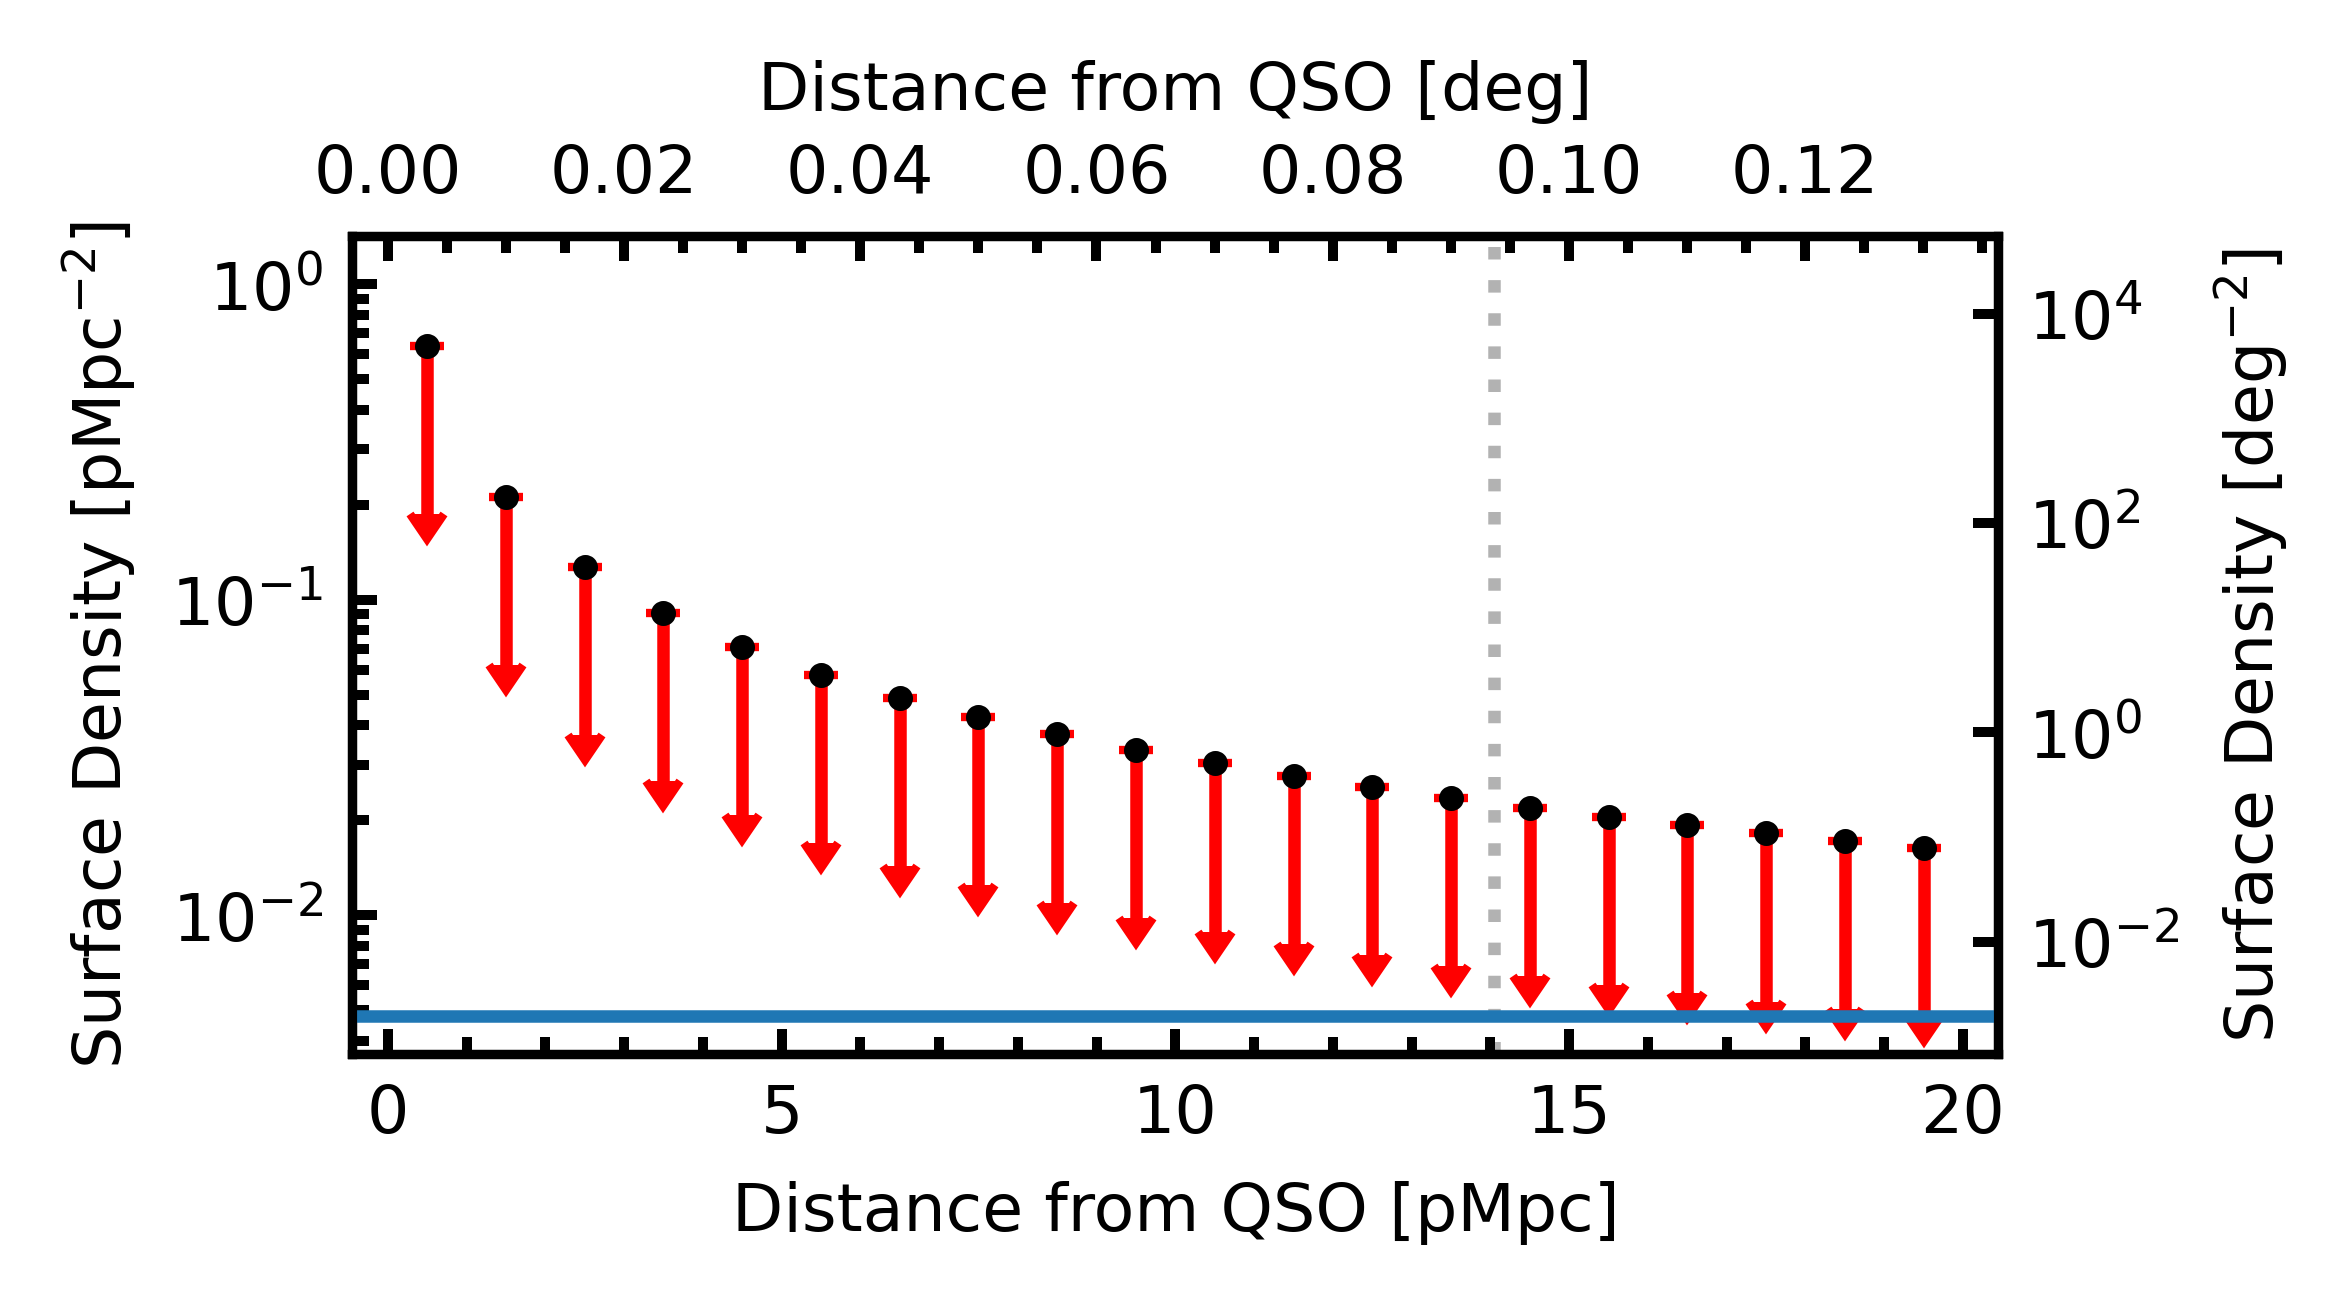
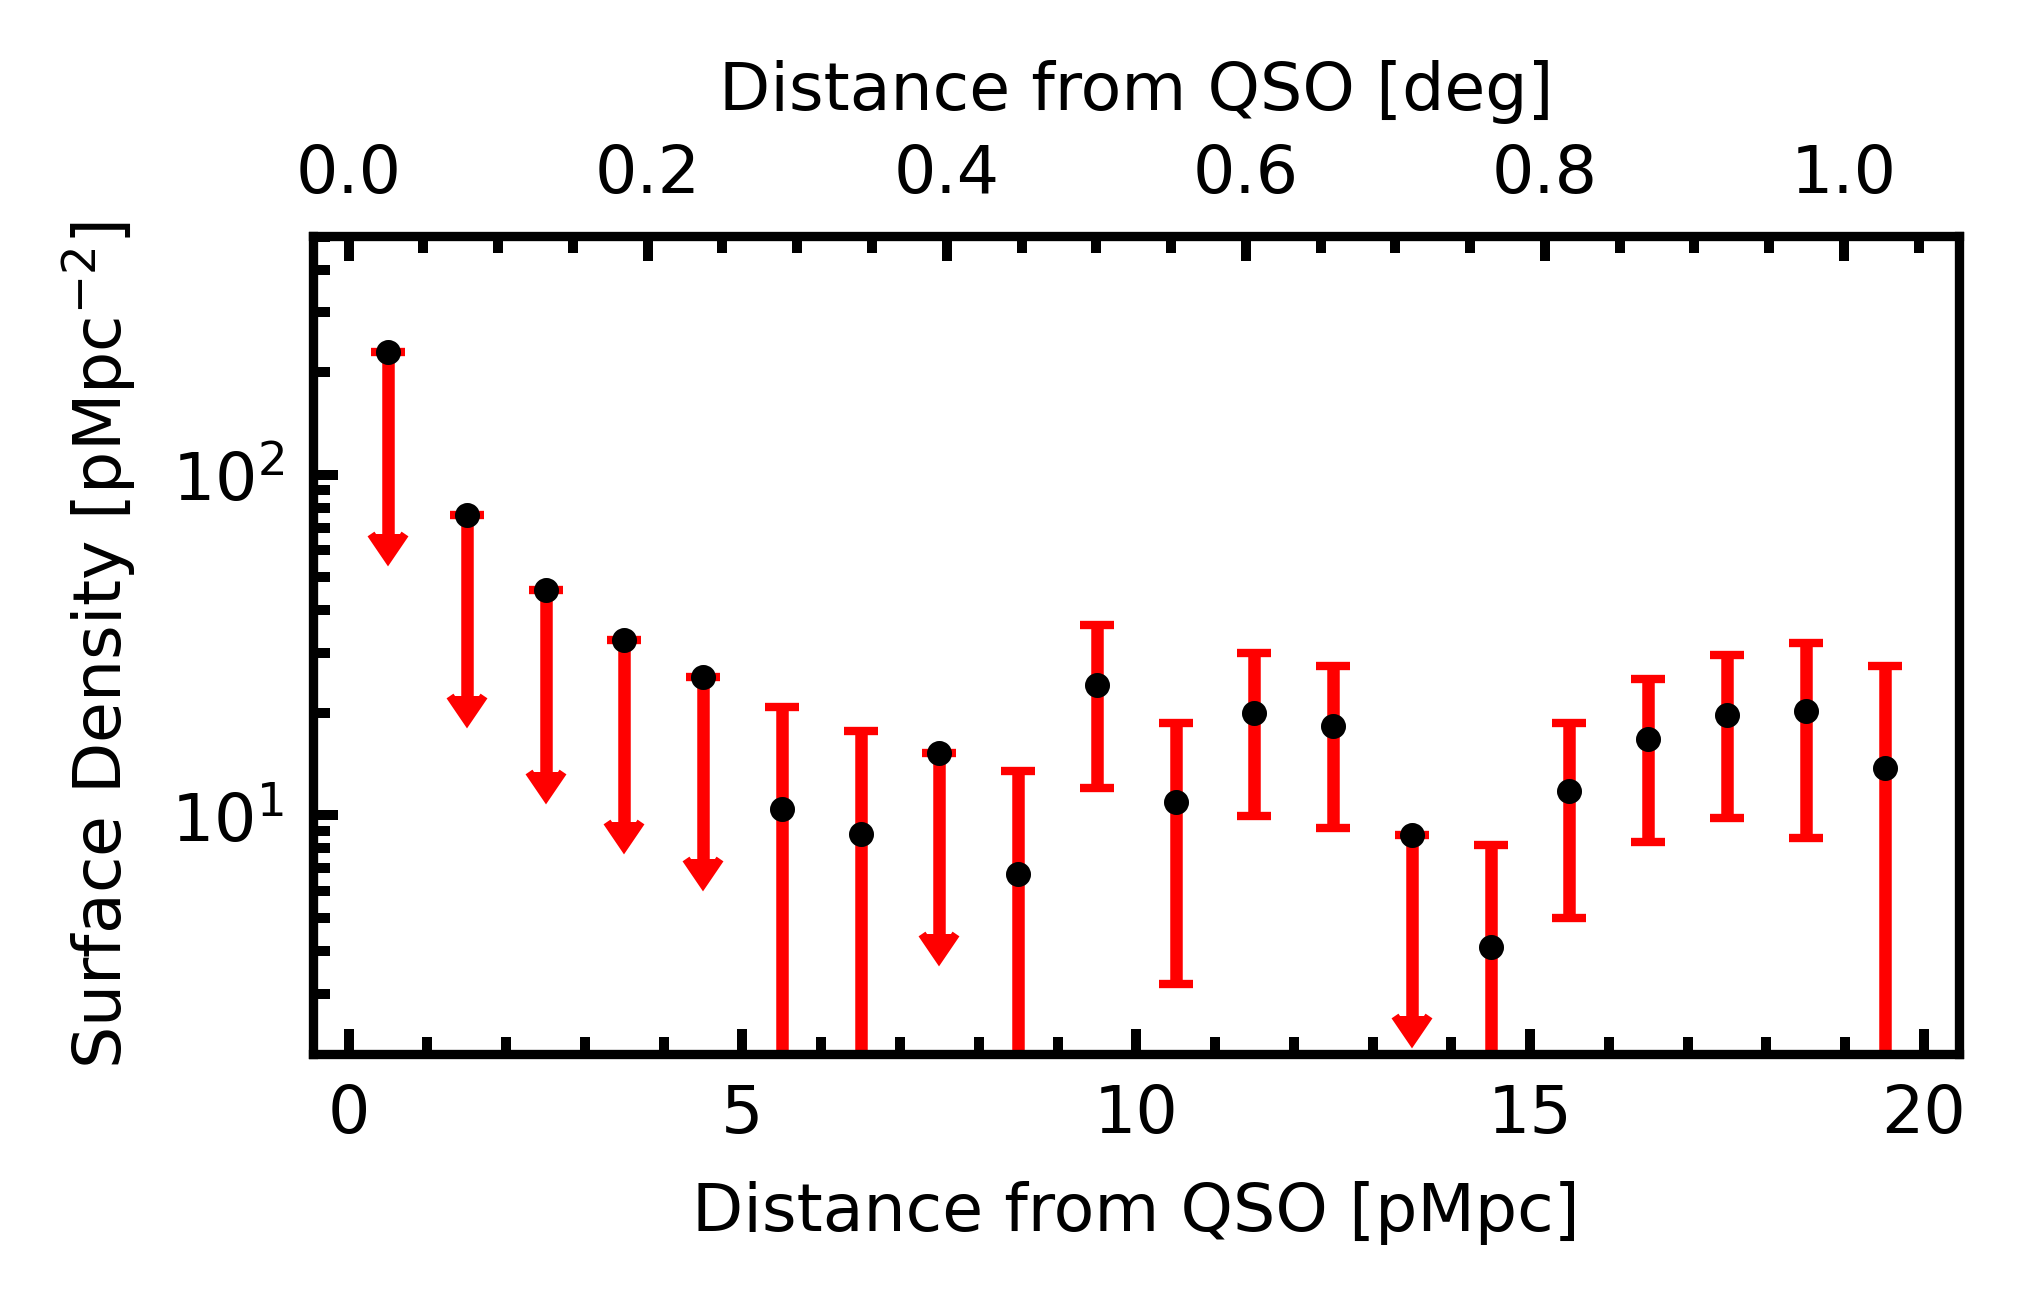
Updatting the radial plots

diff --git a/plot_radial_distribution.py b/plot_radial_distribution.py
@@ -1,0 +1,151 @@
+"""
+Plotting the radial distribution of the counts.
+"""
+
+from rich.progress import track
+import numpy as np
+from astropy.io import fits
+from astropy.wcs import WCS
+import astropy.units as u
+from astropy.cosmology import FlatLambdaCDM
+from astropy.coordinates import SkyCoord
+from astropy.coordinates.angles import Angle
+import pylab as plt
+import plotting
+
+RA_QSO = (23 + (48/60) + (33.34/3600)) * (360/24)
+DEC_QSO = (30 + (54/60) + (10.0/3600)) * -1
+REDSHIFT_QSO = 6.9
+COSMO = FlatLambdaCDM(H0=70, Om0=0.3)
+ARCSEC_PER_KPC = COSMO.arcsec_per_kpc_proper(REDSHIFT_QSO)
+DEG_PER_MPC = ARCSEC_PER_KPC.to(u.deg / u.Mpc)
+
+class Mask:
+    """Mask class"""
+    def __init__(self, file_name: str) -> None:
+        self.hdu = fits.open(file_name)
+        self.data = self.hdu[0].data
+        self.wcs = WCS(self.hdu[0].header)
+        self.deg_per_pix = self.hdu[0].header['PC2_2']*u.deg
+        self.pix_area_deg = (self.deg_per_pix) ** 2
+
+    def calculate_area(self, center: tuple, inner_radius: float, outer_radius: float) -> float:
+        """
+        Calculates the area by counting the number of non-masked pixels and multiplying
+        by the pixel area.
+        """
+        cutout = create_annulus_cutout(self.data, center, inner_radius, outer_radius)
+        number_pixels = len(np.where(cutout==1)[0])
+        return number_pixels * self.pix_area_deg
+
+    @property
+    def center(self):
+        """Calculates the center RA/DEC of the center of the image."""
+        rows, columns = self.data.shape
+        center_row = rows/2
+        center_column = columns/2 
+        return self.wcs.pixel_to_world_values(center_column, center_row)
+
+def create_annulus_cutout(image: np.ndarray, center: tuple, inner_radius: float, outer_radius: float):
+    """
+    Create a new image with an annulus cutout from the input image.
+    
+    Parameters:
+        image (numpy.ndarray): 2D fits image array.
+        center (tuple): Center coordinates (y, x) of the annulus.
+        inner_radius (float): Inner radius of the annulus.
+        outer_radius (float): Outer radius of the annulus.
+        
+    Returns:
+        numpy.ndarray: New image with pixels outside the annulus set to NaN.
+    """
+    y_indicies, x_indicies = np.indices(image.shape)
+
+    distance_from_center = np.sqrt((x_indicies - center[1])**2 + (y_indicies - center[0])**2)
+
+    mask = np.logical_and(distance_from_center >= inner_radius, distance_from_center <= outer_radius)
+
+    cutout_image = image.copy()
+    cutout_image[~mask] = np.nan
+    return cutout_image
+
+def calculate_distances_of_candidates(center: tuple, candidate_list: str) -> Angle:
+    """
+    Works out the distance to the candidates from the given center.
+    Center must be in decimal ra and dec and candidate list is the file name
+    with the positions of the candidates. 
+    """
+    center_position = SkyCoord(ra = center[0]*u.deg, dec = center[1]*u.deg)
+    ras, decs = np.loadtxt(candidate_list, unpack=True)
+    candidates = SkyCoord(ra = ras*u.deg, dec = decs*u.deg)
+    separations = center_position.separation(candidates)
+    return separations
+
+def plot_radial_profile(counts: np.ndarray, areas_vals: list, distances: np.ndarray, separations: np.ndarray, outfile: str):
+    """plots the radial profile"""
+    areas = np.array([area.value for area in areas_vals])
+    null_count_values = np.where(counts==0)[0]
+    non_null_count_values = np.where(counts!=0)[0]
+    counts[null_count_values] = 0#2 # poisson distribution means a zero count is less than 2 counts.
+    y = counts/areas
+    y_err = np.sqrt(counts)/areas
+
+
+    fig = plt.figure(figsize = (3.54, 3.54/2), dpi = 600)
+    ax = fig.add_subplot(111)
+    ax.errorbar(distances[non_null_count_values], y[non_null_count_values], yerr = y_err[non_null_count_values], fmt='ok', ecolor='r', ms = 2, capsize=2)
+    ax.errorbar(distances[null_count_values], y[null_count_values], yerr = y_err[null_count_values], fmt='ok', ecolor='r', ms = 2, capsize=2, uplims=True)
+    ax.set_xlabel('Distance from QSO [pMpc]')
+    ax.set_ylabel(r'Surface Density [deg^{-2}$]')
+    ax.minorticks_on()
+    ax.tick_params(which='both', width=1.2,direction='in')
+    ax.tick_params(which='major', length=3, direction='in')
+    #ax.set_yscale('log')
+
+    ax1 = ax.twiny()
+    ax1.errorbar(separations, y, yerr=y_err, fmt='ok', alpha=0)
+    ax1.set_xlabel('Distance from QSO [deg]')
+    ax1.minorticks_on()
+    ax1.tick_params(which='both', width=1.2,direction='in')
+    ax1.tick_params(which='major', length=3, direction='in')
+    plotting.end_plot(outfile)
+    
+
+if __name__ == '__main__':
+    CDFS_MASK_FILE = 'CDFS_MASK.fits'
+    DECAM_MASK_FILE = 'DECAM_MASK.fits'
+
+    CDFS_CANDIDATES = 'candidates_cdfs_e.txt'
+    DECAM_CANDIDATES = 'candidates_e.txt'
+
+    cdfs = Mask(CDFS_MASK_FILE)
+    cdfs_center = (cdfs.data.shape[1]/2, cdfs.data.shape[0]/2)
+    decam = Mask(DECAM_MASK_FILE)
+    decam_center = decam.wcs.world_to_pixel_values(RA_QSO, DEC_QSO)
+
+
+    radii_mpc = np.arange(0,21,1) * u.Mpc
+    radii_deg = radii_mpc * DEG_PER_MPC
+    radii_pix = radii_deg / cdfs.deg_per_pix
+    average_radii_mpc = np.array([(radii_mpc[i].value + radii_mpc[i+1].value)/2 for i in range(len(radii_mpc) -1)]) * u.Mpc
+    average_radii_deg = average_radii_mpc * DEG_PER_MPC
+
+    areas_cdfs = [cdfs.calculate_area(cdfs_center, radii_pix[i], radii_pix[i+1]) for  i in track(range(len(radii_pix) -1), 'area cdfs')]
+    areas_decam = [decam.calculate_area(decam_center, radii_pix[i], radii_pix[i+1]) for  i in track(range(len(radii_pix) -1), 'area decam')]
+
+    distances_cdfs = calculate_distances_of_candidates(cdfs.center, CDFS_CANDIDATES)
+    distances_decam = calculate_distances_of_candidates((RA_QSO, DEC_QSO), DECAM_CANDIDATES)
+
+    counts_cdfs = np.array(
+        [len(np.where((distances_cdfs.value > radii_deg[i].value) & (distances_cdfs.value < radii_deg[i+1].value))[0]) \
+          for i in range(len(radii_deg) -1)])
+
+    counts_decam = np.array(
+        [
+            len(np.where((distances_decam.value > radii_deg[i].value) & (distances_decam.value < radii_deg[i+1].value))[0]) \
+          for i in range(len(radii_deg) -1)
+        ]
+    )
+
+    plot_radial_profile(counts_cdfs, areas_cdfs, average_radii_mpc, average_radii_deg, 'plots/surface_density_cdfs.png')
+    plot_radial_profile(counts_decam, areas_decam, average_radii_mpc, average_radii_deg, 'plots/surface_density.png')

diff --git a/plot_cdfs_onsky_distribution.py b/plot_cdfs_onsky_distribution.py
@@ -7,10 +7,8 @@ import astropy.units as u
 from astropy.cosmology import FlatLambdaCDM
 from astropy.io import fits
 from astropy.wcs import WCS
-from astropy.visualization import ZScaleInterval
-
-from plot_cumulative import CDFS_AREA
 from regionfy_catalog import load_region
+from astropy.visualization import ZScaleInterval
 import plotting
 
 
@@ -26,63 +24,51 @@ def set_region(ra_pix, dec_pix, radius_mpc: float):
     return region
 
 
-DECAM_SHAPE_FILE = '../correct_stacks/N964/n964_weight.fits'
-CDFS_IMAGE_FILE = '../correct_stacks/N964/n964.fits'
-
-image_data = fits.open(CDFS_IMAGE_FILE)
+DECAM_SHAPE_FILE = '../CDFS_LAGER/n964_weight.fits'
 decam_hdu = fits.open(DECAM_SHAPE_FILE)
 decam_wcs = WCS(decam_hdu[0].header)
 
-RA_QSO = (23 + (48/60) + (33.34/3600)) * (360/24)
-DEC_QSO = (30 + (54/60) + (10.0/3600)) * -1
+center_y, center_x = decam_hdu[0].shape
+center_y, center_x = center_y/2, center_x/2
+RA_QSO, DEC_QSO = decam_wcs.pixel_to_world_values(center_x, center_y)
 REDSHIFT_QSO = 6.9
 COSMO = FlatLambdaCDM(H0=70, Om0=0.3)
 ARCSEC_PER_KPC = COSMO.arcsec_per_kpc_comoving(REDSHIFT_QSO)
 DEG_PER_MPC = ARCSEC_PER_KPC.to(u.deg / u.Mpc)
 DEG_PER_PIX = np.abs(decam_hdu[0].header['PC2_2'])
-REGION_FILE = 'decam.reg'
+REGION_FILE = '../CDFS_LAGER/DECAM_CDFS.reg'
 region_decam_fov = load_region(REGION_FILE)
-region_decam_mask = fits.open('DECAM_MASK.fits')
-region_decam_mask = region_decam_mask[0].data
-region_decam_mask[region_decam_mask == 0] = np.nan
 
-image_data[0].data = image_data[0].data * region_decam_mask
 
 if __name__ == '__main__':
-    #Determine Area of CDFS
-    CDFS_REGION = '../CDFS_LAGER/DECAM_CDFS.reg'
-    CDFS_CANDIDATES = 'candidates_cdfs_e.txt'
-    
-    number_candidates_cdfs = len(np.loadtxt(CDFS_CANDIDATES))
-    area_cdfs_arcsec = CDFS_AREA * u.arcsec
-    area_cdfs_deg = area_cdfs_arcsec.to(u.deg)
-    area_cdfs_degrees = area_cdfs_deg.value
 
-
-    INFILE = 'candidates_e.txt'
+    CDFS_MASK = fits.open('CDFS_MASK.fits')
+    cdfs_mask_data = CDFS_MASK[0].data
+    cdfs_mask_data[cdfs_mask_data == 0] = np.nan
+    image = fits.open('../CDFS_LAGER/n964.fits')
+    masked_image = image[0].data * cdfs_mask_data
+    zscale = ZScaleInterval()
+    lower_lim, upper_lim = zscale.get_limits(masked_image)
+    INFILE = 'candidates_cdfs_e.txt'
     ra, dec = np.loadtxt(INFILE, unpack=True)
 
     ra_plot, dec_plot = decam_wcs.world_to_pixel_values(ra, dec)
     ra_qso_plot, dec_qso_plot = decam_wcs.world_to_pixel_values(RA_QSO, DEC_QSO)
 
     #On sky distribution plot.
-    #region_1 = set_region(ra_qso_plot, dec_qso_plot, 1)
-    region_10 = set_region(ra_qso_plot, dec_qso_plot, 75)
-    #region_20 = set_region(ra_qso_plot, dec_qso_plot, 20)
+    region_1 = set_region(ra_qso_plot, dec_qso_plot, 75)
+    region_10 = set_region(ra_qso_plot, dec_qso_plot, 10)
+    region_20 = set_region(ra_qso_plot, dec_qso_plot, 20)
 
     fig = plt.figure(figsize = (3.54, 3.54), dpi = 600)
     ax = fig.add_subplot(projection = decam_wcs)
-    zscale = ZScaleInterval()
-    lower, upper = zscale.get_limits(image_data[0].data)
-    ax.imshow(image_data[0].data, cmap='gray_r', vmin=lower, vmax=upper)
     ax.set_xlabel('RA')
     ax.set_ylabel('DEC')
-    ax.imshow(decam_hdu[0].data, alpha=0)
-    #region_1.plot(ax=ax, color='red', lw=2.0, ls=':')
-    region_10.plot(ax=ax, color='red', lw=2.0, ls=':')
+    #ax.imshow(cdfs_mask_data, alpha=0.4, cmap='gray_r')
+    ax.imshow(masked_image, cmap='gray_r', vmin=lower_lim, vmax=upper_lim)
+    region_1.plot(ax=ax, color='red', lw=2.0, ls=':')
+    #region_10.plot(ax=ax, color='red', lw=2.0, ls=':')
     #region_20.plot(ax=ax, color='red', lw=2.0, ls=':')
     region_decam_fov.plot(ax = ax, color='k', lw=2.0)
     ax.scatter(ra_plot, dec_plot, s=10)
-    ax.scatter(ra_qso_plot, dec_qso_plot, marker='*', s=100, color='k')
-    plotting.end_plot('plots/on_sky_distribution.png')
-
+    plotting.end_plot('plots/on_sky_distribution_cdfs.png')
